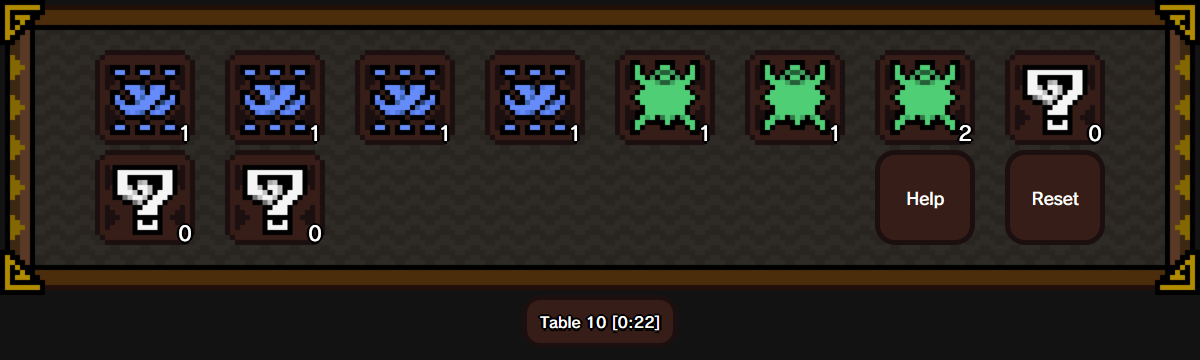
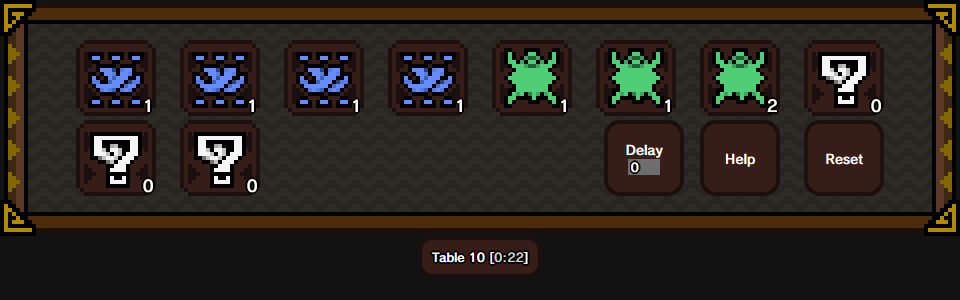
Added extra features

diff --git a/scripts/kelbi-horn/main.js b/scripts/kelbi-horn/main.js
@@ -61,6 +61,7 @@ function get_data(){
 }
 
 function search(){
+	var delay = parseInt(document.getElementById("delay").value);
 	var rewards = [];
 	for(var i = 0; i < 10; i++) rewards[i] = document.getElementById("slot_" + i).value;
 	var result = data.filter(item => 
@@ -86,14 +87,27 @@ function search(){
 		}
 		for(var i = 0; i < trimmed_results.length; i++){
 			var matched_table = trimmed_results[i];
-			var matched_times = [];
+			var seconds = [];
 			
 			for(var j = 0; j < times.length; j++){
 				if(matched_table == times[j][0]){
-					var seconds = String(times[j][1]).padStart(2, '0');
-					matched_times.push("0:" + seconds);
+					seconds.push(times[j][1]);
 				}
-			}
+			}	
+			
+			seconds.sort(function(a, b){
+				return a - b;
+			});
+			
+			var matched_times = seconds.map(function(sec){
+				var second = parseInt(sec);
+				var time = second - delay;
+				if(time < 0) time += 60;
+				if(time >= 60) time -= 60;
+				var time = "0:" + String(time).padStart(2, '0');
+				
+				return `<span class="timelink" onclick="fillRewards(${matched_table}, ${second})">${time}</span>`;
+			});	
 			
 			var res = "Table " + String(trimmed_results[i]).padStart(2, '0') + " [" + matched_times.join(", ") + "]";
 			var txt = document.getElementById("results");
@@ -202,6 +216,11 @@ function update(){
 		document.getElementById("reward-table").appendChild(list);	
 	}
 	
+	var delay = document.createElement("button");
+	delay.innerHTML = `Delay<input onChange="search()" class="dropdown-content delay-value" type="text" id="delay" size="2" value="0">`;
+	delay.classList.add("delay");
+	document.getElementById("reward-table").appendChild(delay);
+	
 	var help = document.createElement("button");
 	help.textContent = "Help";
 	help.classList.add("help");
@@ -232,48 +251,31 @@ function reset(){
         }
     }
 
-    showTimes();
+    search();
 }
 
-function showTimes(){
-	document.getElementById("results").innerHTML = "";
-	var times = [];
-	for(var e of data){
-		times.push([e["Table"], e["Seconds"]]);
-	}
-	
-	for(var i = 1; i <= 12; i++){		
-		var seconds = [];
-		
-		
-		for(var j = 0; j < times.length; j++){
-			if(times[j][0] == i){
-				seconds.push(times[j][1]);
-			}
+function fillRewards(table, seconds){
+	var match = data.find(item => item["Table"] == table && item["Seconds"] == seconds);
+	for(var i = 0; i < 10; i++){
+		var slot = match["Reward " + (i + 1)];
+		var dropdown = document.getElementById("slot_" + i);
+		dropdown.value = slot;
+		if(slot == "Any" || !slot){
+			document.getElementById("icon_" + i).src = "assets/rewards/Any.png";
+            document.getElementById("reward_num_" + i).textContent = "0";
 		}
-		
-		seconds.sort(function(a, b){
-			return a - b;
-		});
-		
-		var formatted_times = [];
-		for(var sec of seconds){
-			formatted_times.push("0:" + String(sec).padStart(2, '0'));
+		else{
+			var item = getItem(slot)[0];
+            var count = getItem(slot)[1];
+			document.getElementById("icon_" + i).src = "assets/rewards/" + item + ".png";
+			document.getElementById("reward_num_" + i).textContent = count;
 		}
-		
-		var res = "Table " + String(i).padStart(2, '0') + " [" + formatted_times.join(", ") + "]";
-		var txt = document.getElementById("results");
-		txt.innerHTML += res;
-		if(i < 12) txt.innerHTML += "<div style='height: 10px'></div>"
 	}
-
-	
-	show_results();
+	search();
 }
 
 window.onload=function(){
 	update();
 	get_data();
-	showTimes();
-	show_results();
+	search();
 }

diff --git a/kelbi-horn.html b/kelbi-horn.html
@@ -45,6 +45,15 @@
 	border-radius: 8px;
 }
 
+.timelink{
+	cursor: pointer;
+	color: #D0D0D0;
+}
+
+.timelink:hover{
+	color: #F0F0F0;
+}
+
 .list-visible{
 	display: flex;
 }
@@ -91,6 +100,10 @@ td:hover{
 	background-color: #4b2d0c;
 }
 
+input { 
+    text-align: center; 
+}
+
 .results{
 	background-color: #361d18;
 	border: 4px solid #1b0f0f;
@@ -112,6 +125,28 @@ td:hover{
 .col5{left: 604px;}
 .col6{left: 708px;}
 .col7{left: 812px;}
+
+.delay{
+	position: absolute;
+	width: 80px;
+	height: 76px;
+	top: 120px;
+	left: 604px;
+	background-color: #361d18;
+	border: 4px solid #1b0f0f;
+	border-radius: 16px;
+	font-family: 'Rodin';
+	color: #FFFFFF;
+}
+
+.delay-value{
+	position: absolute;
+	left: 10px;
+	right: 10px;
+	bottom: 4px;
+	border: 1px solid #1b0f0f;
+	background-color: #4f2a23;
+}
 
 .help{
 	position: absolute;
@@ -285,6 +320,24 @@ td:hover{
 		margin-top: 5vw;
 	}
 	
+	.delay{
+		width: 8.333vw;
+		height: 7.917vw;
+		top: 12.5vw;
+		left: 62.917vw;
+		transform: unset;
+		border: 0.417vw solid #1b0f0f;
+		border-radius: 5px;
+		font-size: 1.5vw;
+	}
+	
+	.delay-value{
+		left: 2px;
+		right: 2px;
+		bottom: -1px;
+		font-size: 1.5vw;
+	}
+	
 	.help{
 		width: 8.333vw;
 		height: 7.917vw;
@@ -363,7 +416,7 @@ td:hover{
 
 
 </div>
-<div id="results-block" style="display: none">
+<div id="results-block" style="display: table-cell">
 	<div id="results" class="results"></div>
 </div>
 <div id="help-window" class="help-window">
@@ -377,10 +430,5 @@ td:hover{
 <script src="scripts/navmenu.js"></script>
 <script src="scripts/kelbi-horn/rewards.js"></script>
 <script src="scripts/kelbi-horn/main.js"></script>
-<script>
-function show_results(){
-	document.getElementById("results-block").style.display = "table-cell";
-}
-</script> 
 </body>
 </html>